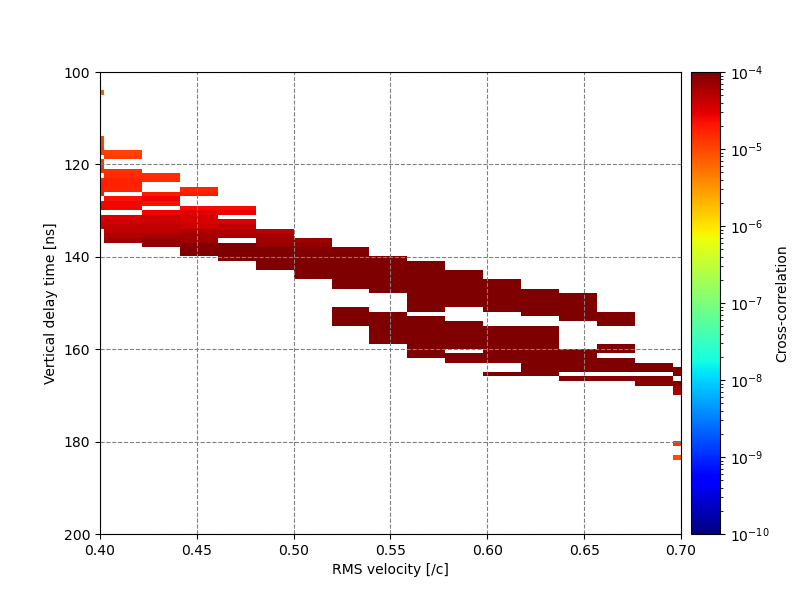
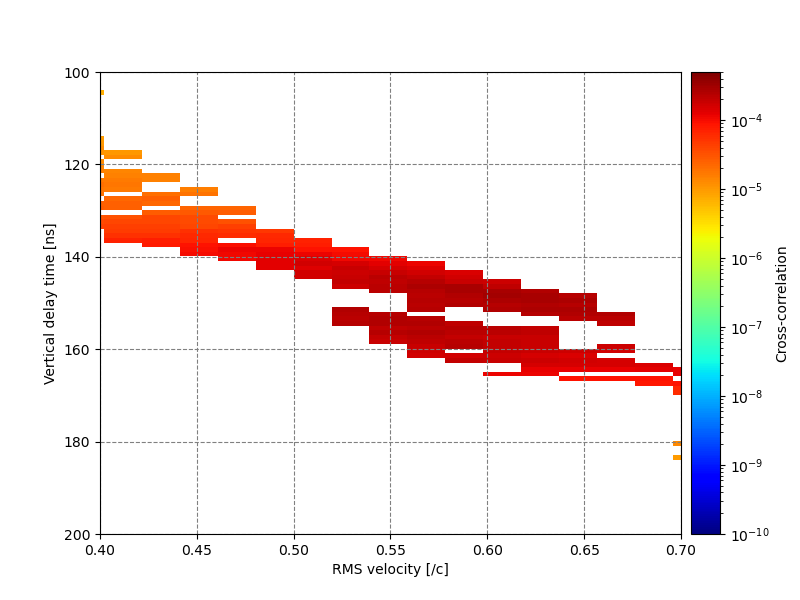
change color range

diff --git a/tools/estimate_Vrms.py b/tools/estimate_Vrms.py
@@ -140,7 +140,7 @@ ax = fig.add_subplot(111)
 
 plt.imshow(Vt_map, cmap='jet', aspect='auto', interpolation='nearest',
         extent=[RMS_velocity[0], RMS_velocity[-1], vertical_delay_time[-1], vertical_delay_time[0]],
-        norm=colors.LogNorm(vmin=1e-10, vmax=1e-4))
+        norm=colors.LogNorm(vmin=1e-10, vmax=5e-4))
 
 ax.set_xlabel('RMS velocity [/c]')
 ax.set_ylabel('Vertical delay time [ns]')
@@ -150,10 +150,10 @@ ax.grid(color='gray', linestyle='--')
 ===== for closeup option =====
 """
 if args.closeup == True:
-    x_start = 0.35
-    x_end = 0.6
-    y_start = 700
-    y_end = 900
+    x_start = 0.4
+    x_end = 0.7
+    y_start = 100
+    y_end = 200
     plt.xlim(x_start, x_end)
     plt.ylim(y_end, y_start)
 
